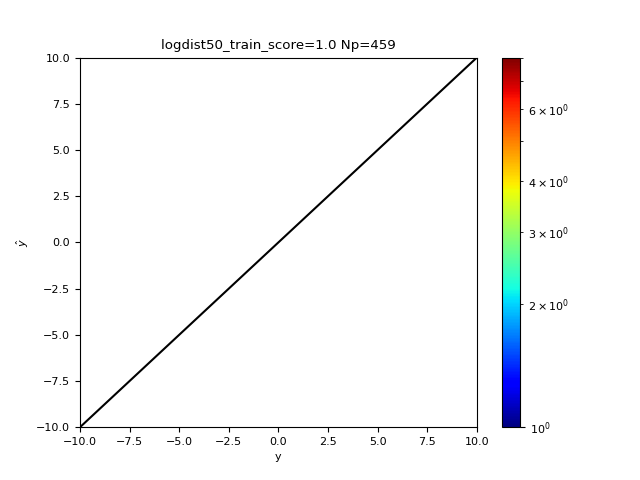
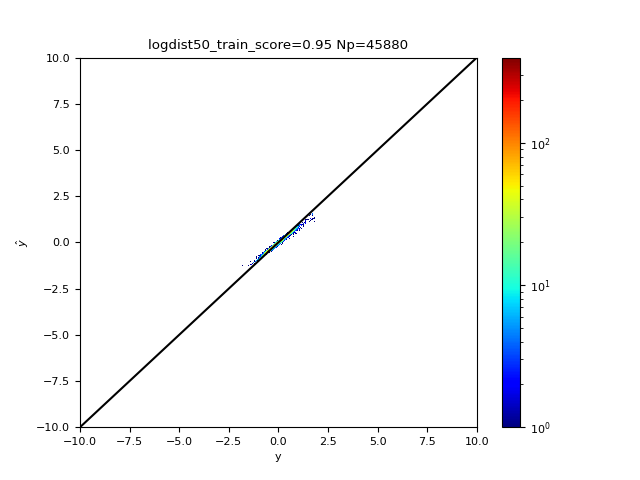
full working within docker , using fraction by default.

diff --git a/src/mlflowxgb.py b/src/mlflowxgb.py
@@ -241,7 +241,7 @@ def train_sh23_model(data,params,label="target",mlflow_experiment_id=0):
     xgb.set_config(verbosity=1)
     with mlflow.start_run(experiment_id=mlflow_experiment_id,run_name=f"{label}_manual_squarederror_AKh"):
        
-        model = xgb.train(params, dtrain, num_boost_round=1000,verbose_eval=True,
+        model = xgb.train(params, dtrain, num_boost_round=250,verbose_eval=True,
                 #early_stopping_rounds=10,
                 evals=[(dtrain, "train")])
         # Start prediction

diff --git a/README.md b/README.md
@@ -108,4 +108,5 @@ Smoke test
    apptainer exec -B /data/mlruns:/data/mlruns -B /home/hermes:/app mlflow.sif /app/entrypoint.sh
    or (server-only): apptainer exec -B /data/mlruns:/data/mlruns -B /home/hermes:/app mlflow.sif mlflow server --backend-store-uri sqlite:///mlflow.db --default-artifact-root /data/mlruns --host 0.0.0.0 --port 5123
 3) Run training on sample: python3 src/mlflowxgb.py 0
+   Note: For quick testing and iteration, you can run training on a 5% sample of the data and reduce the `num_boost_round` parameter in `xgb.train` to 250 (from the default 1000) inside `src/mlflowxgb.py`, e.g. using `make run-0 5`.
 